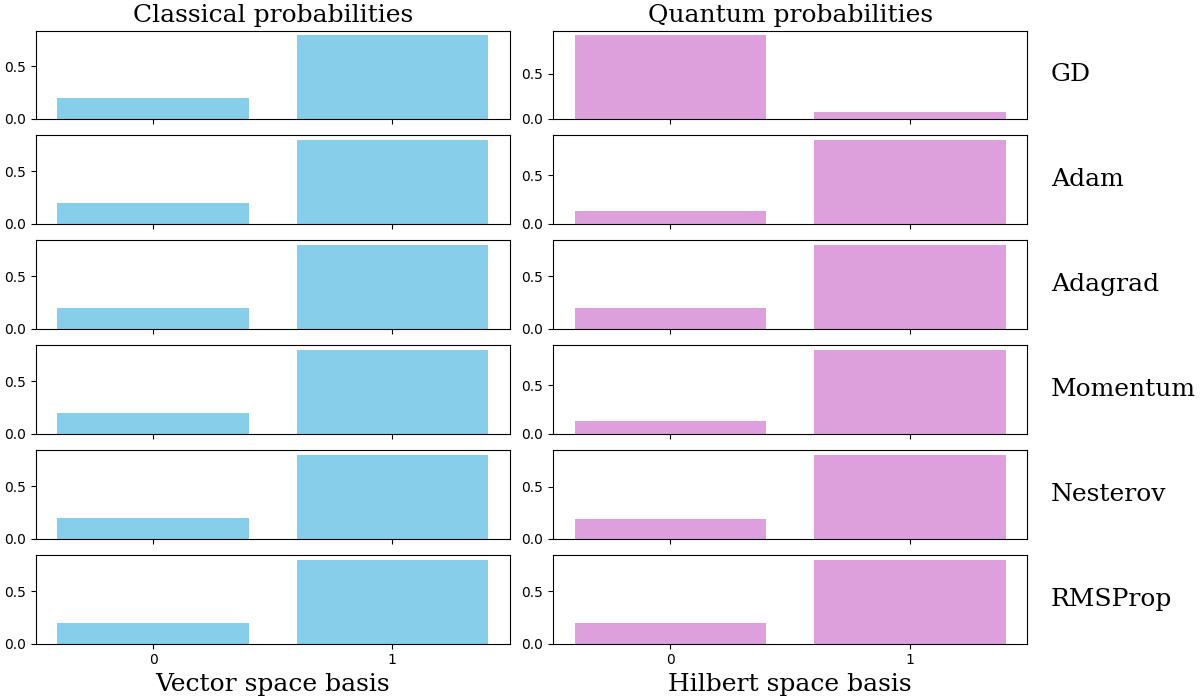
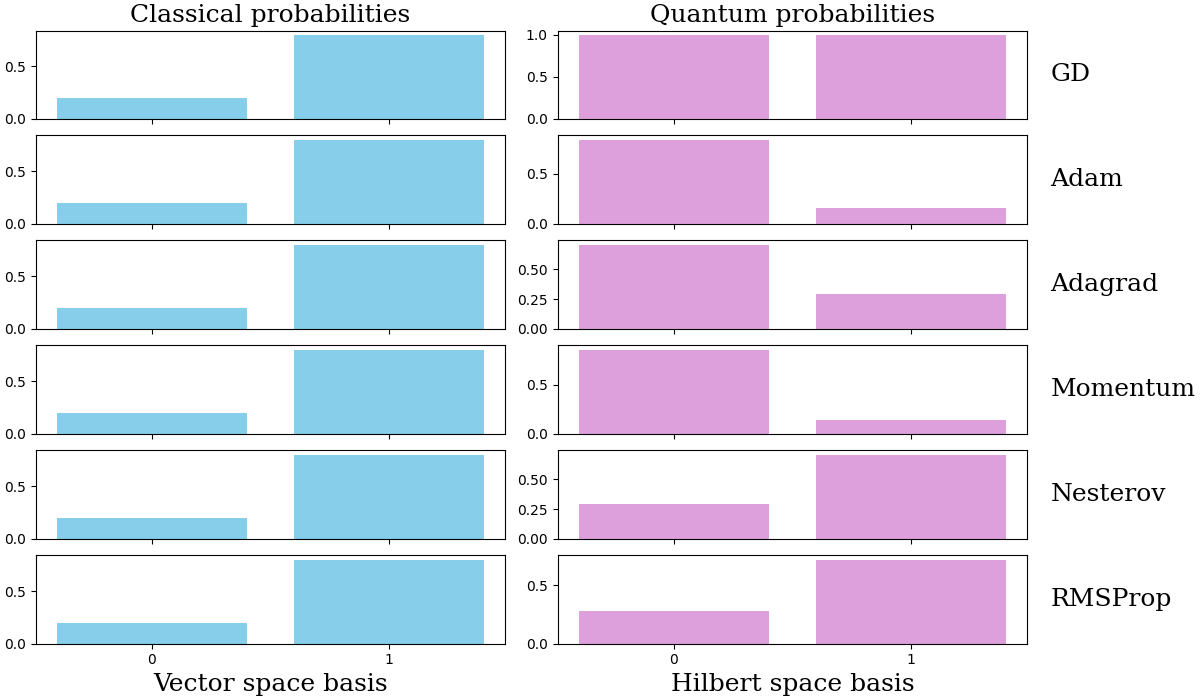
vqls class now using backend class

diff --git a/src/utils/backend.py b/src/utils/backend.py
@@ -36,19 +36,11 @@ class QDeviceBase(ABC):
             "sample": qml.sample
         }
 
-        self.interface_list = {
-            "expval": qml.expval,
-            "probs": qml.probs,
-            "state": qml.state,
-            "counts": qml.counts,
-            "sample": qml.sample
-        }
-
     def set_device(self, device_name, **kwargs):
         try:
             self.qdevice = qml.device(device_name, **kwargs)
-            print(
-                f"Device set with {kwargs['wires']} wires, shots={kwargs.get('shots')}, seed={kwargs.get('seed')}, max_workers={kwargs.get('max_workers')}")
+            kwargs_str = ', '.join(f"{key}={value}" for key, value in kwargs.items())
+            print(f"Device set with {kwargs_str}")
         except Exception as e:
             print(f"Error setting device: {e}")
             self.qdevice = None
@@ -73,7 +65,7 @@ class DefaultQubit(QDeviceBase):
     Backend for the default.qubit simulator.
     """
 
-    def __init__(self, wires, shots=None, seed=None, max_workers=None, observable=None, returntype=None):
+    def __init__(self, wires, shots=None, seed=None, max_workers=None, observable="sigz", returntype="expval"):
         super().__init__()
         self.name = "default.qubit"
         self.wires = wires
@@ -84,7 +76,11 @@ class DefaultQubit(QDeviceBase):
         self.returntype = self.returntype_list[returntype]
 
         # set the backend device
-        self.set_device("default.qubit", wires=wires, shots=shots, seed=seed, max_workers=max_workers)
+        self.set_device(device_name=self.name,
+                        wires=self.wires,
+                        shots=self.shots,
+                        seed=self.seed,
+                        max_workers=self.max_workers)
 
 
 class LightningQubit(QDeviceBase):
@@ -92,29 +88,31 @@ class LightningQubit(QDeviceBase):
     Backend for the lightning.qubit simulator.
     """
 
-    def __init__(self, wires, shots=None, seed=None, interface=None, observable=None, returntype=None):
+    def __init__(self, wires, shots=None, seed=None, interface="auto", observable="sigz", returntype="expval"):
         super().__init__()
         self.name = "lightning.qubit"
         self.wires = wires
         self.shots = shots
         self.seed = seed
-        self.interface = self.interface_list[interface]
+        self.interface = interface
         self.observable = self.observable_list[observable]
         self.returntype = self.returntype_list[returntype]
 
         # set the backend device
-        self.set_device("lightning.qubit", wires=wires, shots=shots, seed=seed)
+        self.set_device(device_name=self.name,
+                        wires=self.wires,
+                        shots=self.shots,
+                        seed=self.seed)
 
 
 if __name__ == "__main__":
 
     # Using DefaultQubit backend
-    backend = DefaultQubit()
+    backend = DefaultQubit(wires=[0, 1])
     if backend.qdevice is not None:
         print(f"Device successfully set: {backend.qdevice}")
 
     # Using LightningQubit backend
-    lightning_backend = LightningQubit()
+    lightning_backend = LightningQubit(wires=[0, 1])
     if lightning_backend.qdevice is not None:
         print(f"Device successfully set: {lightning_backend.qdevice}")
-

diff --git a/src/vqls/vqls_fast_and_slow.py b/src/vqls/vqls_fast_and_slow.py
@@ -63,7 +63,7 @@ class FastSlowVQLS:
             self.stateprep = stateprep
 
         if backend is None:
-            self.backend = DefaultQubit()
+            self.backend = DefaultQubit(wires=self.nqubits+1)
         else:
             self.backend = backend
 
@@ -102,9 +102,11 @@ class FastSlowVQLS:
 
         """
 
-        dev_mu = qml.device("default.qubit", wires=nqubits + 1)
+        # dev_mu = qml.device("default.qubit", wires=nqubits + 1)
+        #
+        # @qml.qnode(dev_mu)
 
-        @qml.qnode(dev_mu)
+        @qml.qnode(self.backend.qdevice)
         def qcircuit(weights):
 
             # First Hadamard gate applied to the ancillary qubit.
@@ -311,15 +313,13 @@ class FastSlowVQLS:
     def solve_classic(self):
         return np.linalg.solve(self.A, self.b)
 
-    def plot_probs(self, params_opt, nshots=10 ** 6):
+    def plot_probs(self, device, params_opt):
 
         # classical probabilities
         x = self.solve_classic()
         c_probs = (x / np.linalg.norm(x)) ** 2
 
-        dev_x = qml.device("lightning.qubit", wires=self.nqubits, shots=nshots)
-
-        @qml.qnode(dev_x, interface="autograd")
+        @qml.qnode(device.qdevice, interface=device.interface)
         def prepare_and_sample(weights):
             self.V(weights)
             return qml.sample()
@@ -336,7 +336,7 @@ class FastSlowVQLS:
             samples = []
             for sam in raw_samples:
                 samples.append(int("".join(str(bs) for bs in sam), base=2))
-            q_probs = np.round(np.bincount(samples) / nshots, 2)
+            q_probs = np.round(np.bincount(samples) / device.shots, 2)
 
             axs[i, 0].xaxis.set_major_locator(MaxNLocator(integer=True))
             axs[i, 1].xaxis.set_major_locator(MaxNLocator(integer=True))
@@ -374,7 +374,7 @@ if __name__ == "__main__":
     nqubits = 1
     nlayers = 1
 
-    maxiter = 20
+    maxiter = 5
 
     # random symmetric positive definite matrix
     A0, b0 = utils.get_random_ls(nqubits, easy_example=True)
@@ -394,10 +394,9 @@ if __name__ == "__main__":
 
     prep_ = MottonenStatePrep(wires=range(nqubits))
 
-    backend_ = DefaultQubit()
+    backend_ = DefaultQubit(wires=nqubits + 1)
 
     cost_hists = {}
-
     wopts = {}
 
     for optim in optims:
@@ -416,4 +415,6 @@ if __name__ == "__main__":
     title = "{:s}    qubits = {:d}    layers = {:d}".format(ansatz_.__class__.__name__, nqubits, nlayers)
     utils.plot_costs(data=cost_hists, save_png=True, title=title)
 
-    solver.plot_probs(wopts)
+    device_probs = LightningQubit(wires=nqubits, shots=100)
+
+    solver.plot_probs(device_probs, wopts)
